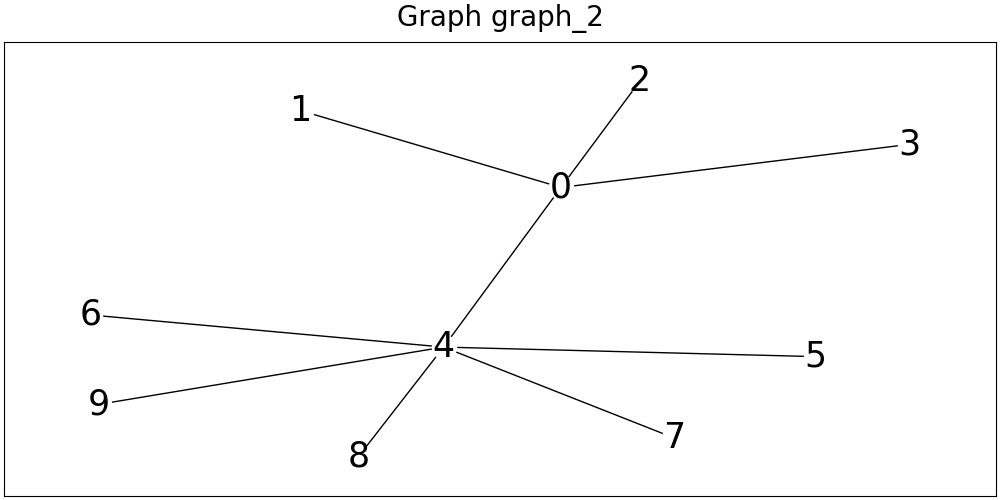
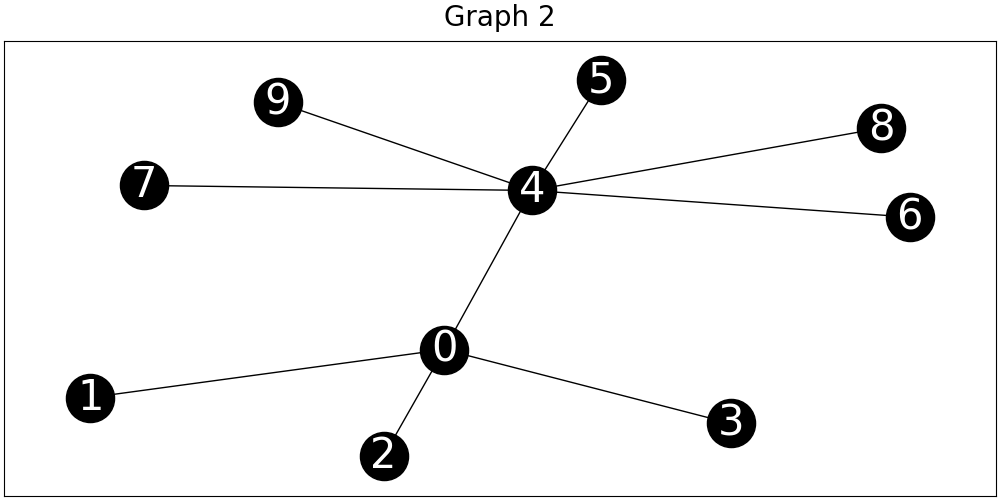
updates

diff --git a/cvf-analysis/plot_results.py b/cvf-analysis/plot_results.py
@@ -18,7 +18,7 @@ if program not in programs:
     print(f"Program {program} not found.")
     exit(1)
 
-program_label_map = {"dijkstra_token_ring": "dijkstra_tr"}
+program_label_map = {"dijkstra_token_ring": "dijkstra", "coloring": "graph coloring", "maximal_matching": "maximal matching"}
 program_label = program_label_map.get(program, program)
 
 analysis_type = "full"  # full, partial
@@ -74,6 +74,8 @@ def plot_node_rank_effect(node, df, ax):
     df = df.loc[df["CVF (Avg)"] > 0]
     sns.lineplot(data=df, x="Rank Effect", y="CVF (Avg)", ax=ax)
     ax.set(xlabel=f"Rank Effect of Node: {node}", ylabel="Count")
+    ax.tick_params(axis='x', labelsize=20)
+    ax.tick_params(axis='y', labelsize=20)
     ax.xaxis.label.set_size(fontsize)
     ax.yaxis.label.set_size(fontsize)
     ax.set_title("CVF Avg")
@@ -116,7 +118,7 @@ for graph_name in graph_names:
             node_id = f"{node_id}"
         file_name = f"rank_effect_by_node__{analysis_type}__{program}__{graph_name}__node_{node_id}"
         fig_title = (
-            f"rank_effect_by_node__{program_label}__{graph_name}__node_{node_id}"
+            f"Distribution of rank effects at node {node_id} in {program_label} problem"
         )
         fig.suptitle(fig_title, fontsize=fontsize)
         plot_node_rank_effect(index[0], grp, axs)

diff --git a/cvf-analysis/plot_graphs.py b/cvf-analysis/plot_graphs.py
@@ -22,10 +22,10 @@ for gname in graph_names:
     fig = plt.figure(figsize=(10, 5), constrained_layout=True)
     if planar:
         pos = nx.planar_layout(G)
-        nx.draw_networkx(G, pos=pos, node_color="white", ax=fig.add_subplot(), font_size=25)
+        nx.draw_networkx(G, pos=pos, node_color="black", ax=fig.add_subplot(), font_size=25)
     else:
-        nx.draw_networkx(G, node_color="white", ax=fig.add_subplot(), font_size=25)
+        nx.draw_networkx(G, node_color="black", font_color="white", ax=fig.add_subplot(), font_size=30, node_size=1200)
 
-    fig.suptitle(f"Graph {gname}", fontsize=fontsize)
+    fig.suptitle(f"Graph {gname.split("_")[1]}", fontsize=fontsize)
     fig.savefig(f"graph_images/{gname}.png")
     # plt.show()
